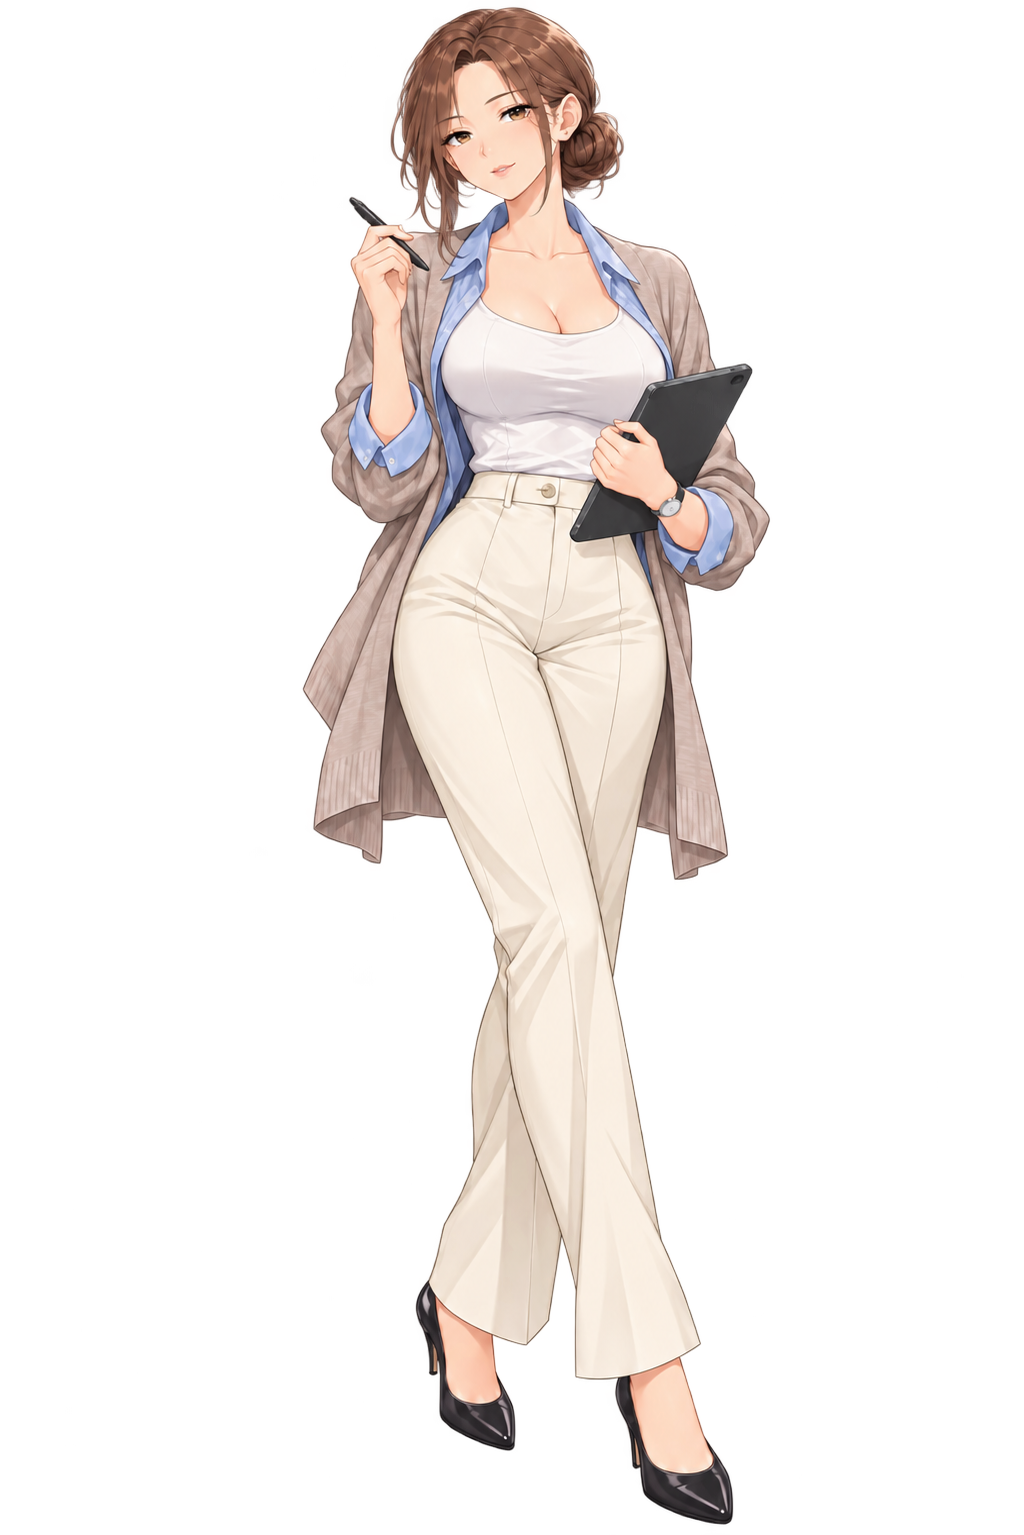
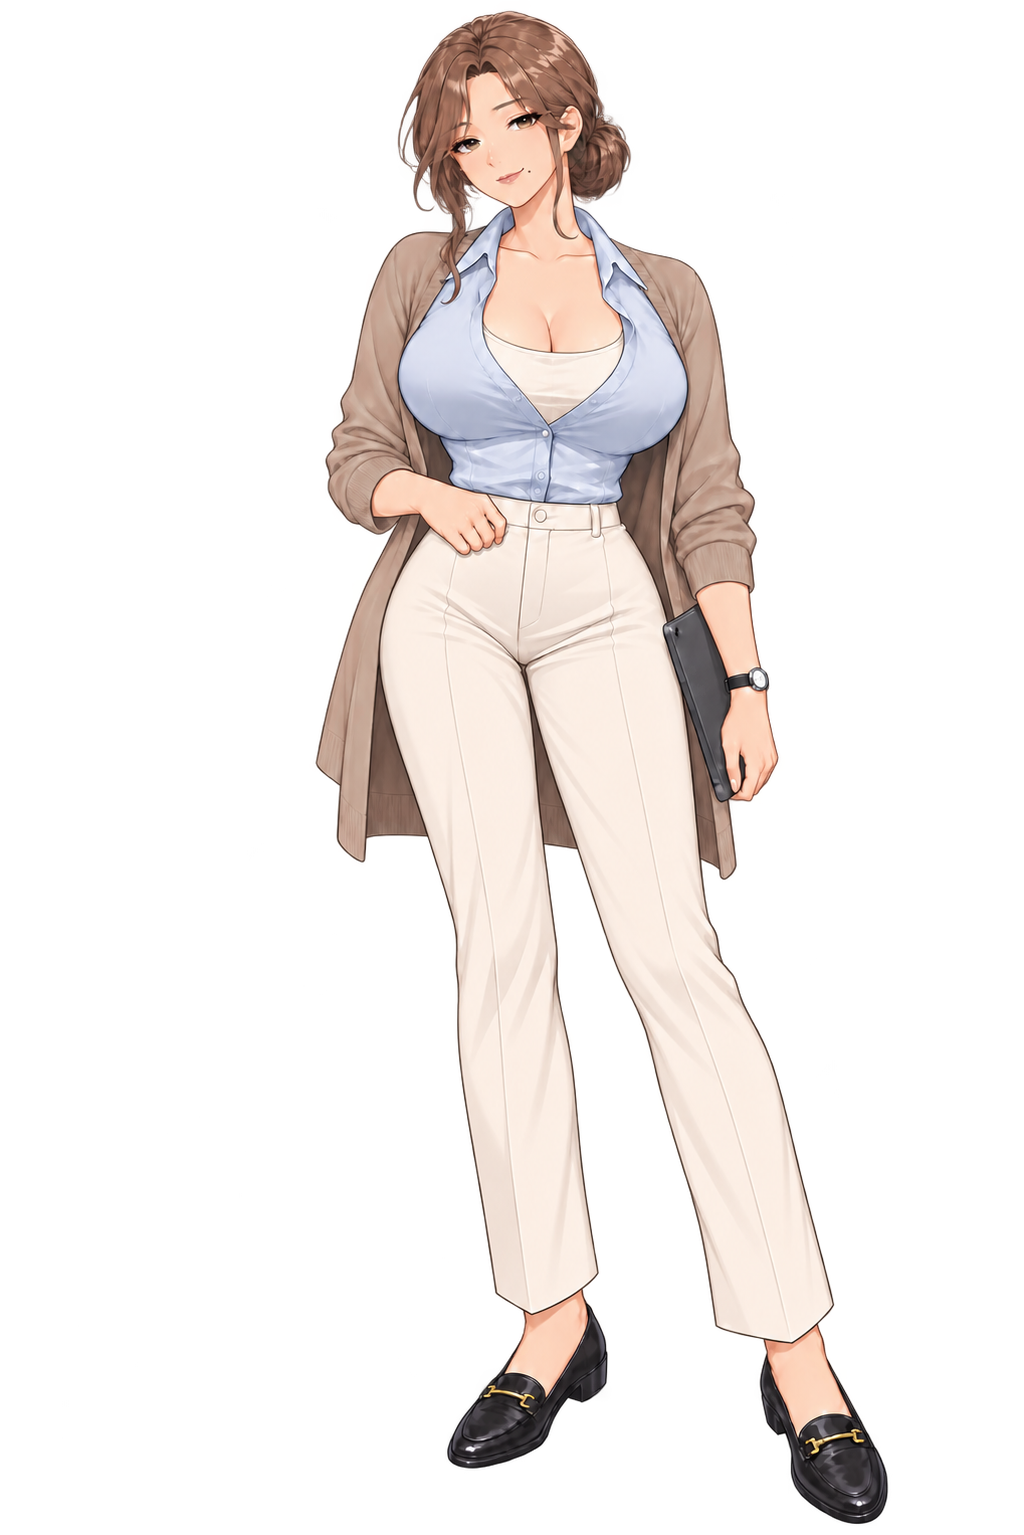
Update heroine masters, poses, profile photos and image gallery

Changed region(s): [[0.2812, 0.0, 0.875, 1.0]]

diff --git a/히로인/README.md b/히로인/README.md
@@ -1,0 +1,61 @@
+# 히로인 MASTER · 포즈 · 사진
+
+2026-10-07 현재 프로젝트에서 사용하는 이미지 모음입니다. 비교 미리보기 아래에서 원본 PNG를 각각 열 수 있습니다.
+
+- 게임용 MASTER 4장 + 추가 포즈 9장
+- 휴대폰 프로필 사진 4장 + 리아 카페 셀카 1장
+- 승인 MASTER 원화 4장과 비교 미리보기 4장
+
+이번 업데이트는 이미지 자료입니다. 게임 코드·스토리의 전체 동기화와는 별개입니다.
+
+## 한서윤
+
+![한서윤 포즈 비교](previews/seoyun_preview.jpg)
+
+[승인 MASTER 원화](한서윤_seoyun_MASTER.png)
+
+| MASTER | 업무 | 편한 대화 |
+| --- | --- | --- |
+| ![한서윤 MASTER](../RenPy_게임/game/images/characters/seoyun_master.png) | ![한서윤 업무](../RenPy_게임/game/images/characters/seoyun_poses/work.png) | ![한서윤 편한 대화](../RenPy_게임/game/images/characters/seoyun_poses/casual.png) |
+
+## 강리아
+
+![강리아 포즈 비교](previews/ria_preview.jpg)
+
+[승인 MASTER 원화](강리아_ria_MASTER.png)
+
+| MASTER | 설명 | 편한 대화 | 듣는 자세 |
+| --- | --- | --- | --- |
+| ![강리아 MASTER](../RenPy_게임/game/images/characters/ria_master.png) | ![강리아 설명](../RenPy_게임/game/images/characters/ria_poses/explaining.png) | ![강리아 편한 대화](../RenPy_게임/game/images/characters/ria_poses/casual.png) | ![강리아 듣는 자세](../RenPy_게임/game/images/characters/ria_poses/listening.png) |
+
+## 차유진
+
+![차유진 포즈 비교](previews/yujin_preview.jpg)
+
+[승인 MASTER 원화](차유진_yujin_MASTER.png)
+
+| MASTER | 업무 | 편한 대화 |
+| --- | --- | --- |
+| ![차유진 MASTER](../RenPy_게임/game/images/characters/yujin_master.png) | ![차유진 업무](../RenPy_게임/game/images/characters/yujin_poses/work.png) | ![차유진 편한 대화](../RenPy_게임/game/images/characters/yujin_poses/casual.png) |
+
+## 백지현
+
+![백지현 포즈 비교](previews/jihyun_preview.jpg)
+
+[승인 MASTER 원화](백지현_jihyun_MASTER.png)
+
+| MASTER | 업무 | 편한 대화 |
+| --- | --- | --- |
+| ![백지현 MASTER](../RenPy_게임/game/images/characters/jihyun_master.png) | ![백지현 업무](../RenPy_게임/game/images/characters/jihyun_poses/work.png) | ![백지현 편한 대화](../RenPy_게임/game/images/characters/jihyun_poses/casual.png) |
+
+## 휴대폰 프로필 사진
+
+| 서윤 | 리아 | 유진 | 지현 |
+|---|---|---|---|
+| ![한서윤 프로필](../RenPy_게임/game/images/phone/seoyun_profile_v001.png) | ![강리아 프로필](../RenPy_게임/game/images/phone/ria_profile_v001.png) | ![차유진 프로필](../RenPy_게임/game/images/phone/yujin_profile_v001.png) | ![백지현 프로필](../RenPy_게임/game/images/phone/jihyun_profile_v001.png) |
+
+## 리아 카페 셀카
+
+![리아 카페 셀카](../RenPy_게임/game/images/cg/ria_cafe_cg_v001.png)
+
+PNG는 원본 파일 그대로 업로드했습니다. 비교 미리보기만 보기 쉽게 축소·배치했습니다. 크기와 체크섬은 [파일 목록](images_manifest.json)에 있습니다.
